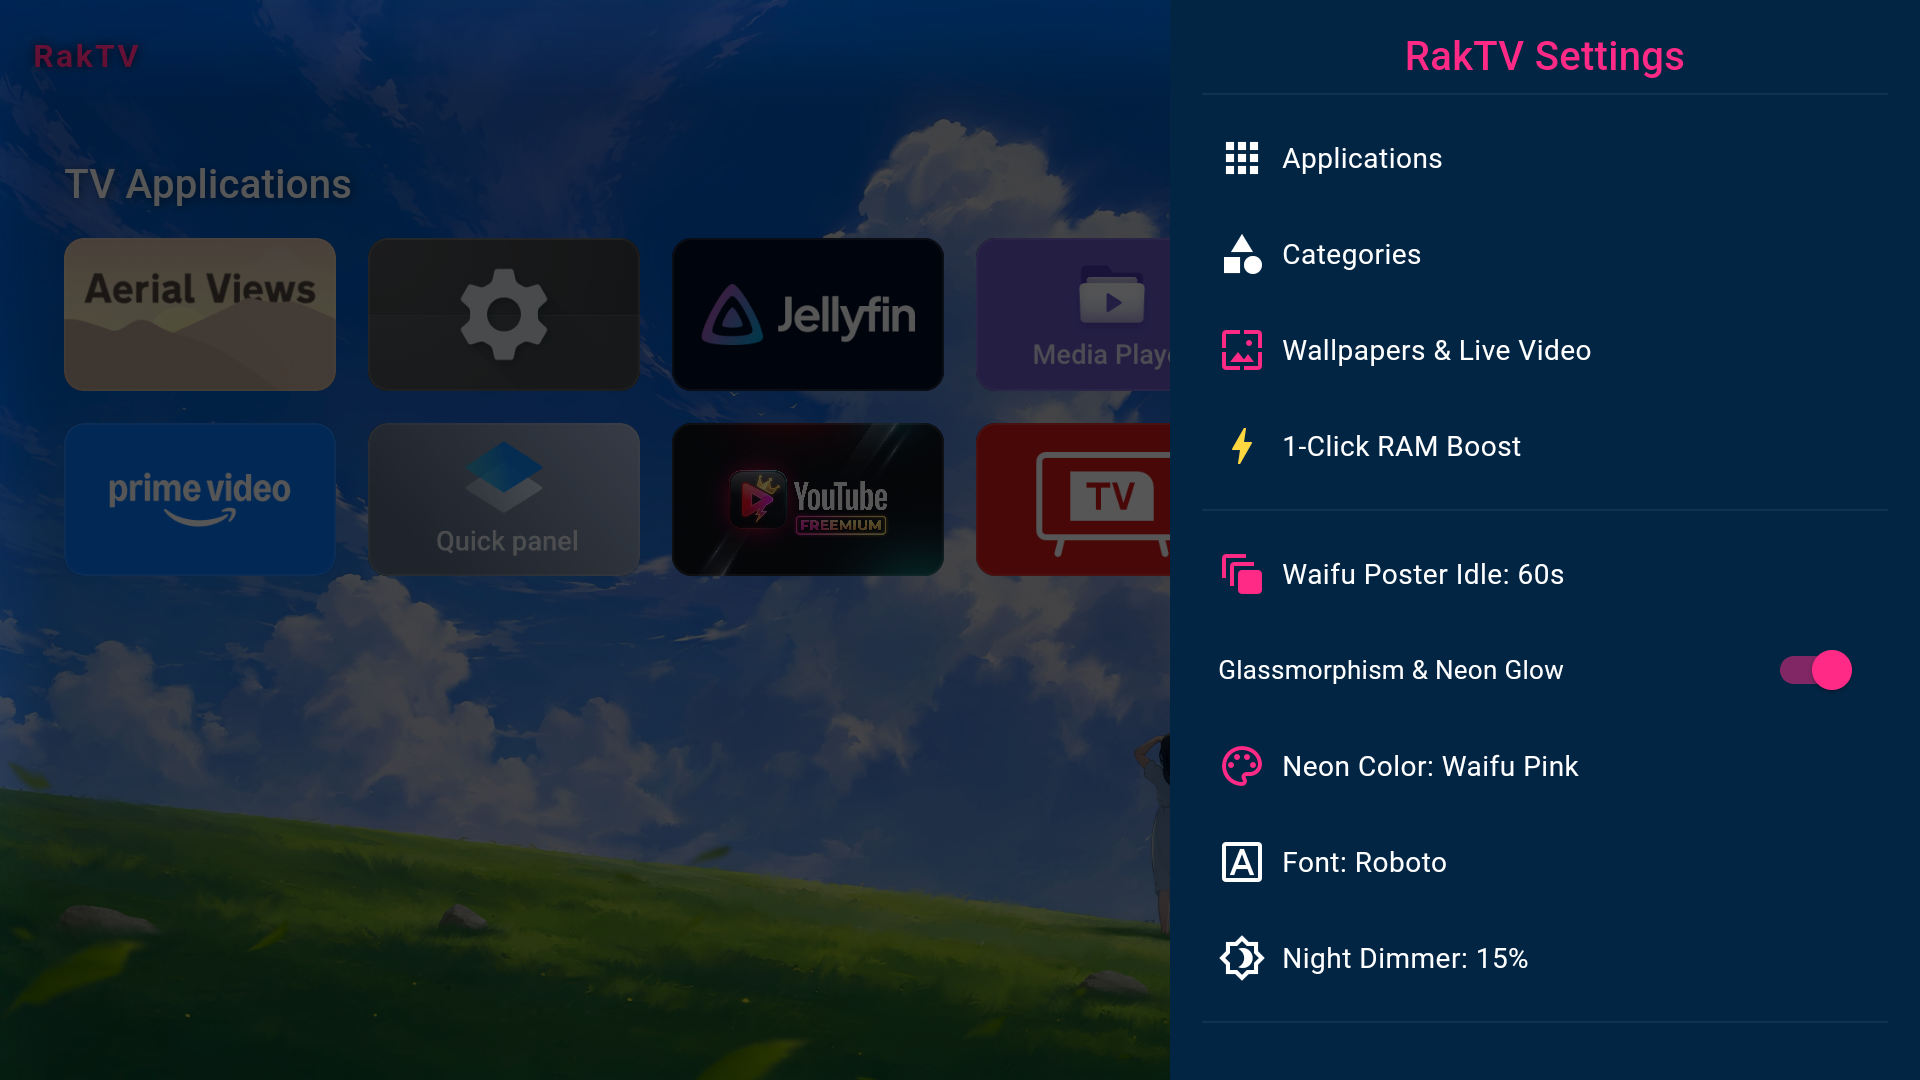
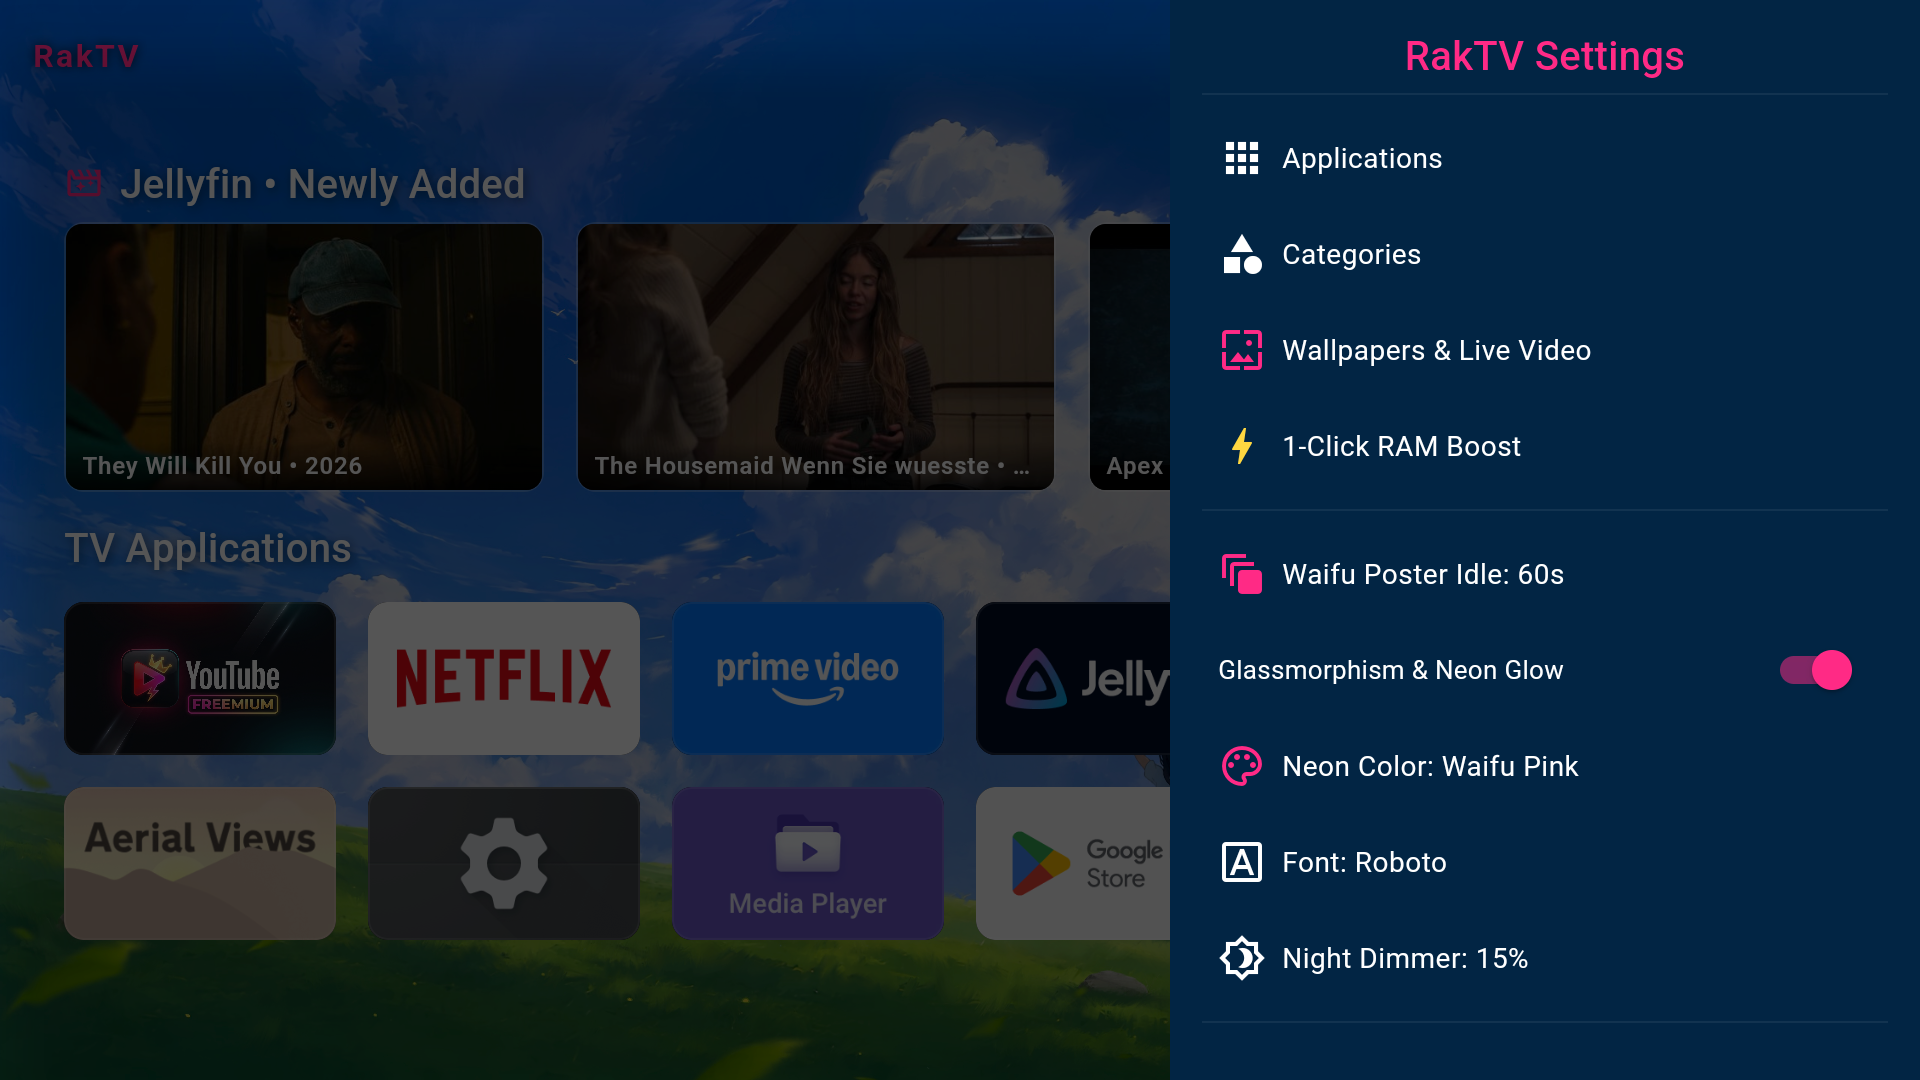
docs: update README with all 4 live screenshots (Home with Jellyfin Newly Added row & Kodi, Settings, Wallpaper Studio & Waifu Poster Mode)

Changed region(s): [[0.0312, 0.1528, 0.625, 0.8861]]

diff --git a/README.md b/README.md
@@ -12,12 +12,15 @@
 
 ## 📸 Live Screenshots
 
-### 🏠 Home Screen (4K Anime Wallpaper, Waifu-Pink Neon Glow & Custom "YouTube FREEMIUM" Banner)
+### 🏠 Home Screen (Jellyfin 16:9 "Newly Added" Poster Row, 4K Anime Wallpaper & Custom "YouTube FREEMIUM" Banner)
 ![RakTV Home Screen](screenshots/raktv_home.png)
 
-| ⚙ RakTV Pro & Ultra Settings | 🖼 4K Anime & Live Video Wallpaper Studio + Icon Reordering |
+| ⚙ RakTV Pro & Ultra Settings | 🖼 4K Anime & Live Video Wallpaper Studio |
 | :---: | :---: |
 | ![RakTV Settings](screenshots/raktv_settings.png) | ![RakTV Wallpaper Studio](screenshots/raktv_wallpapers.png) |
+
+### 🌸 Waifu Poster Mode (Auto-Idle Fade-Out with Floating Glass Clock)
+![RakTV Waifu Poster Mode](screenshots/raktv_poster_mode.png)
 
 ---
 
